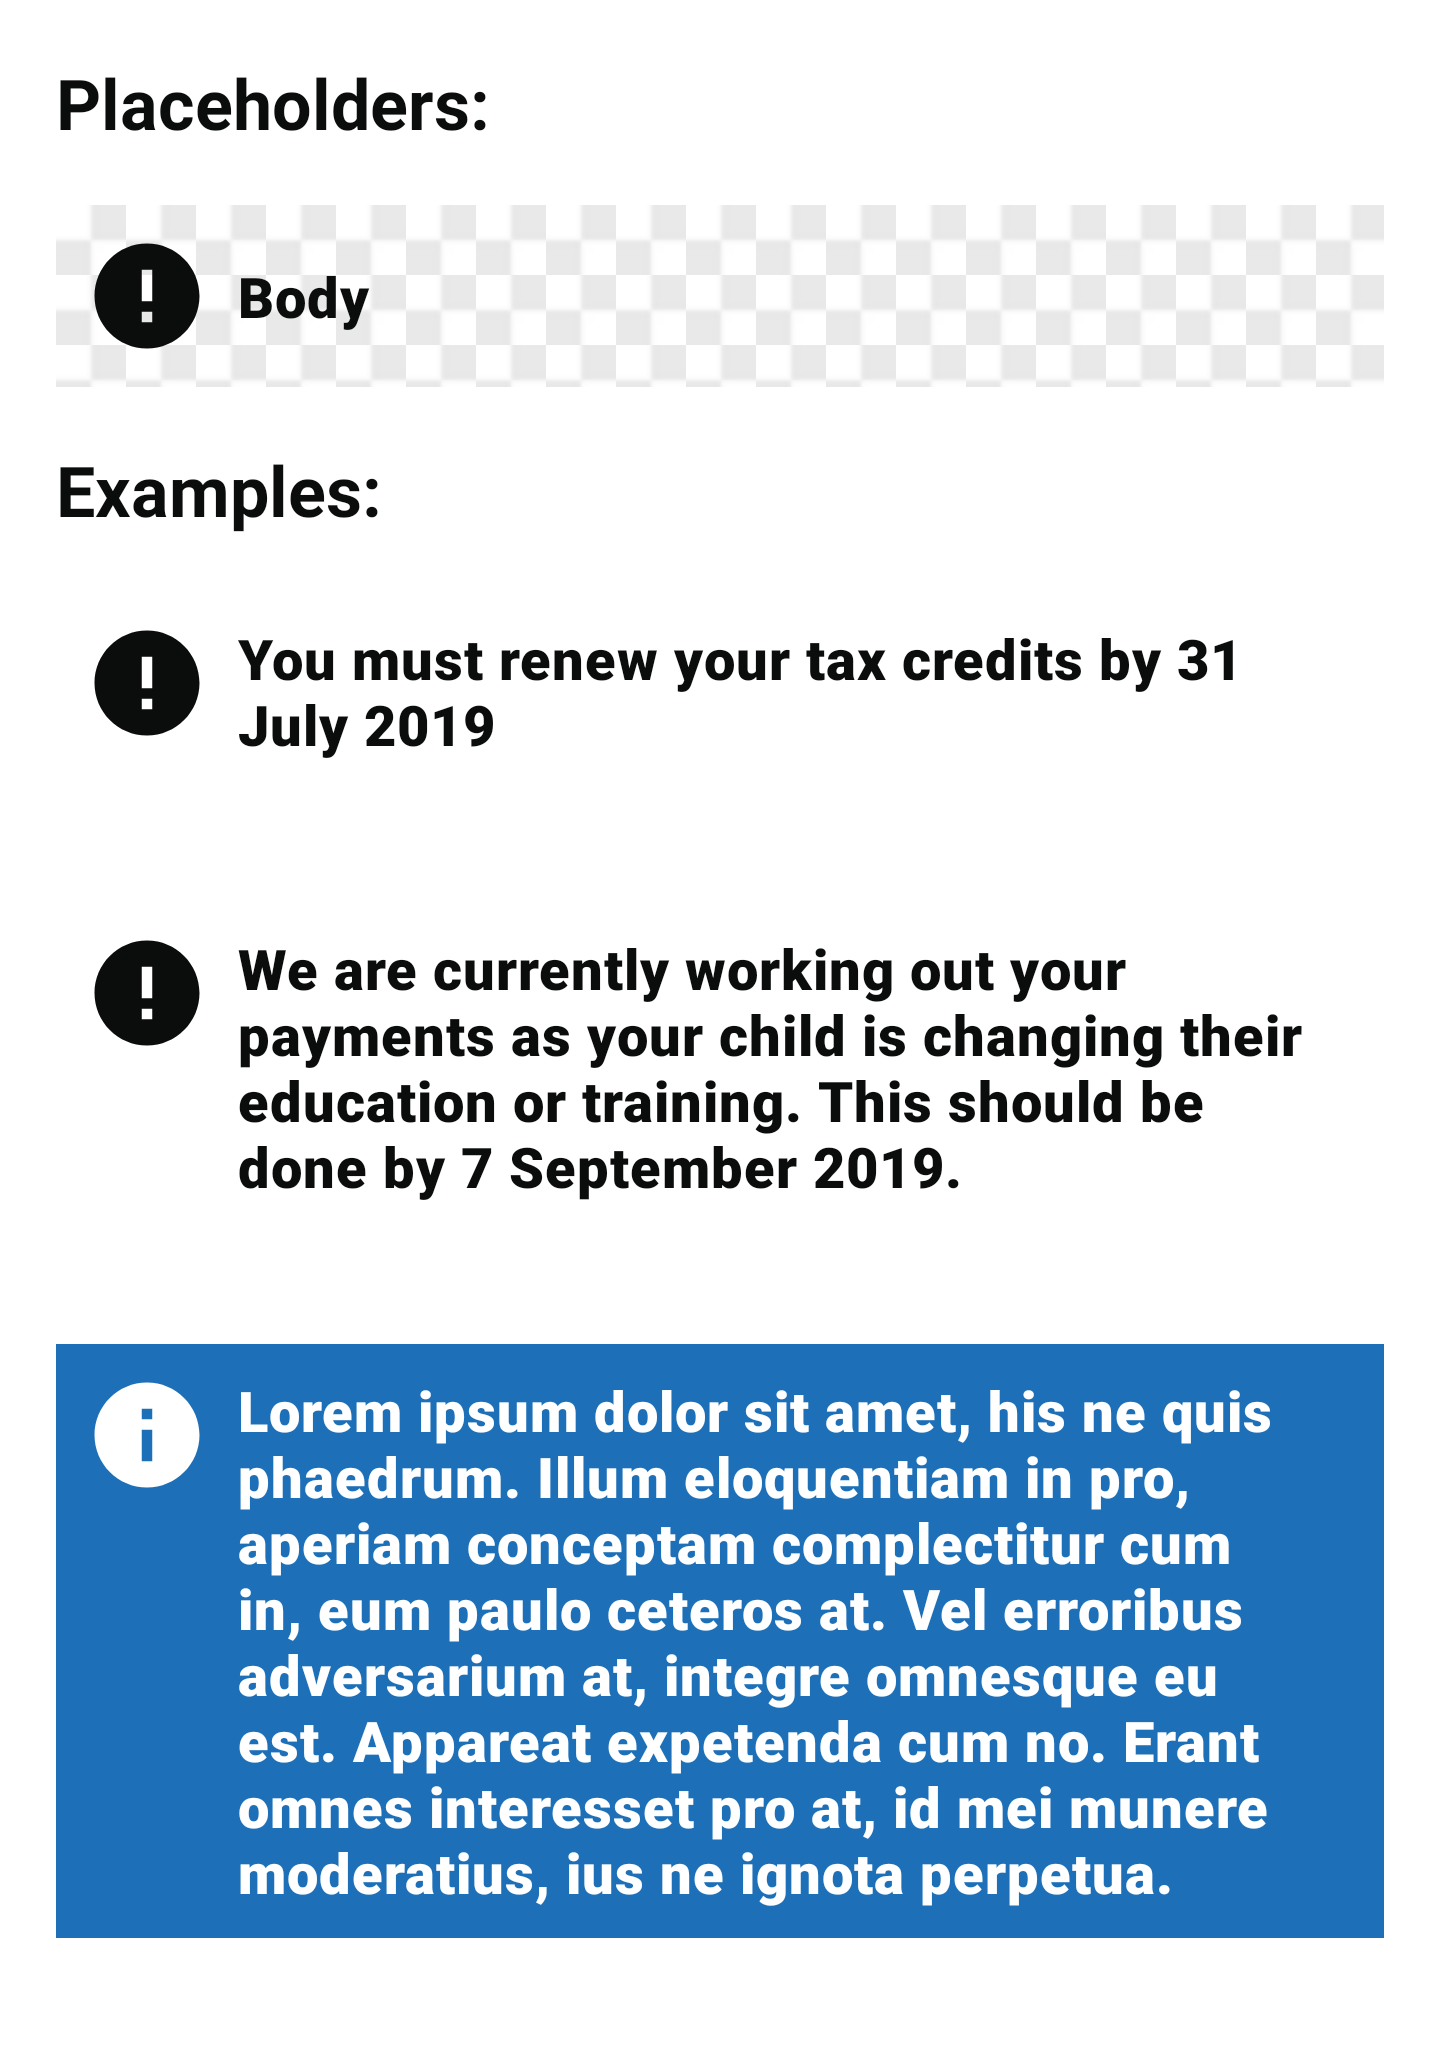
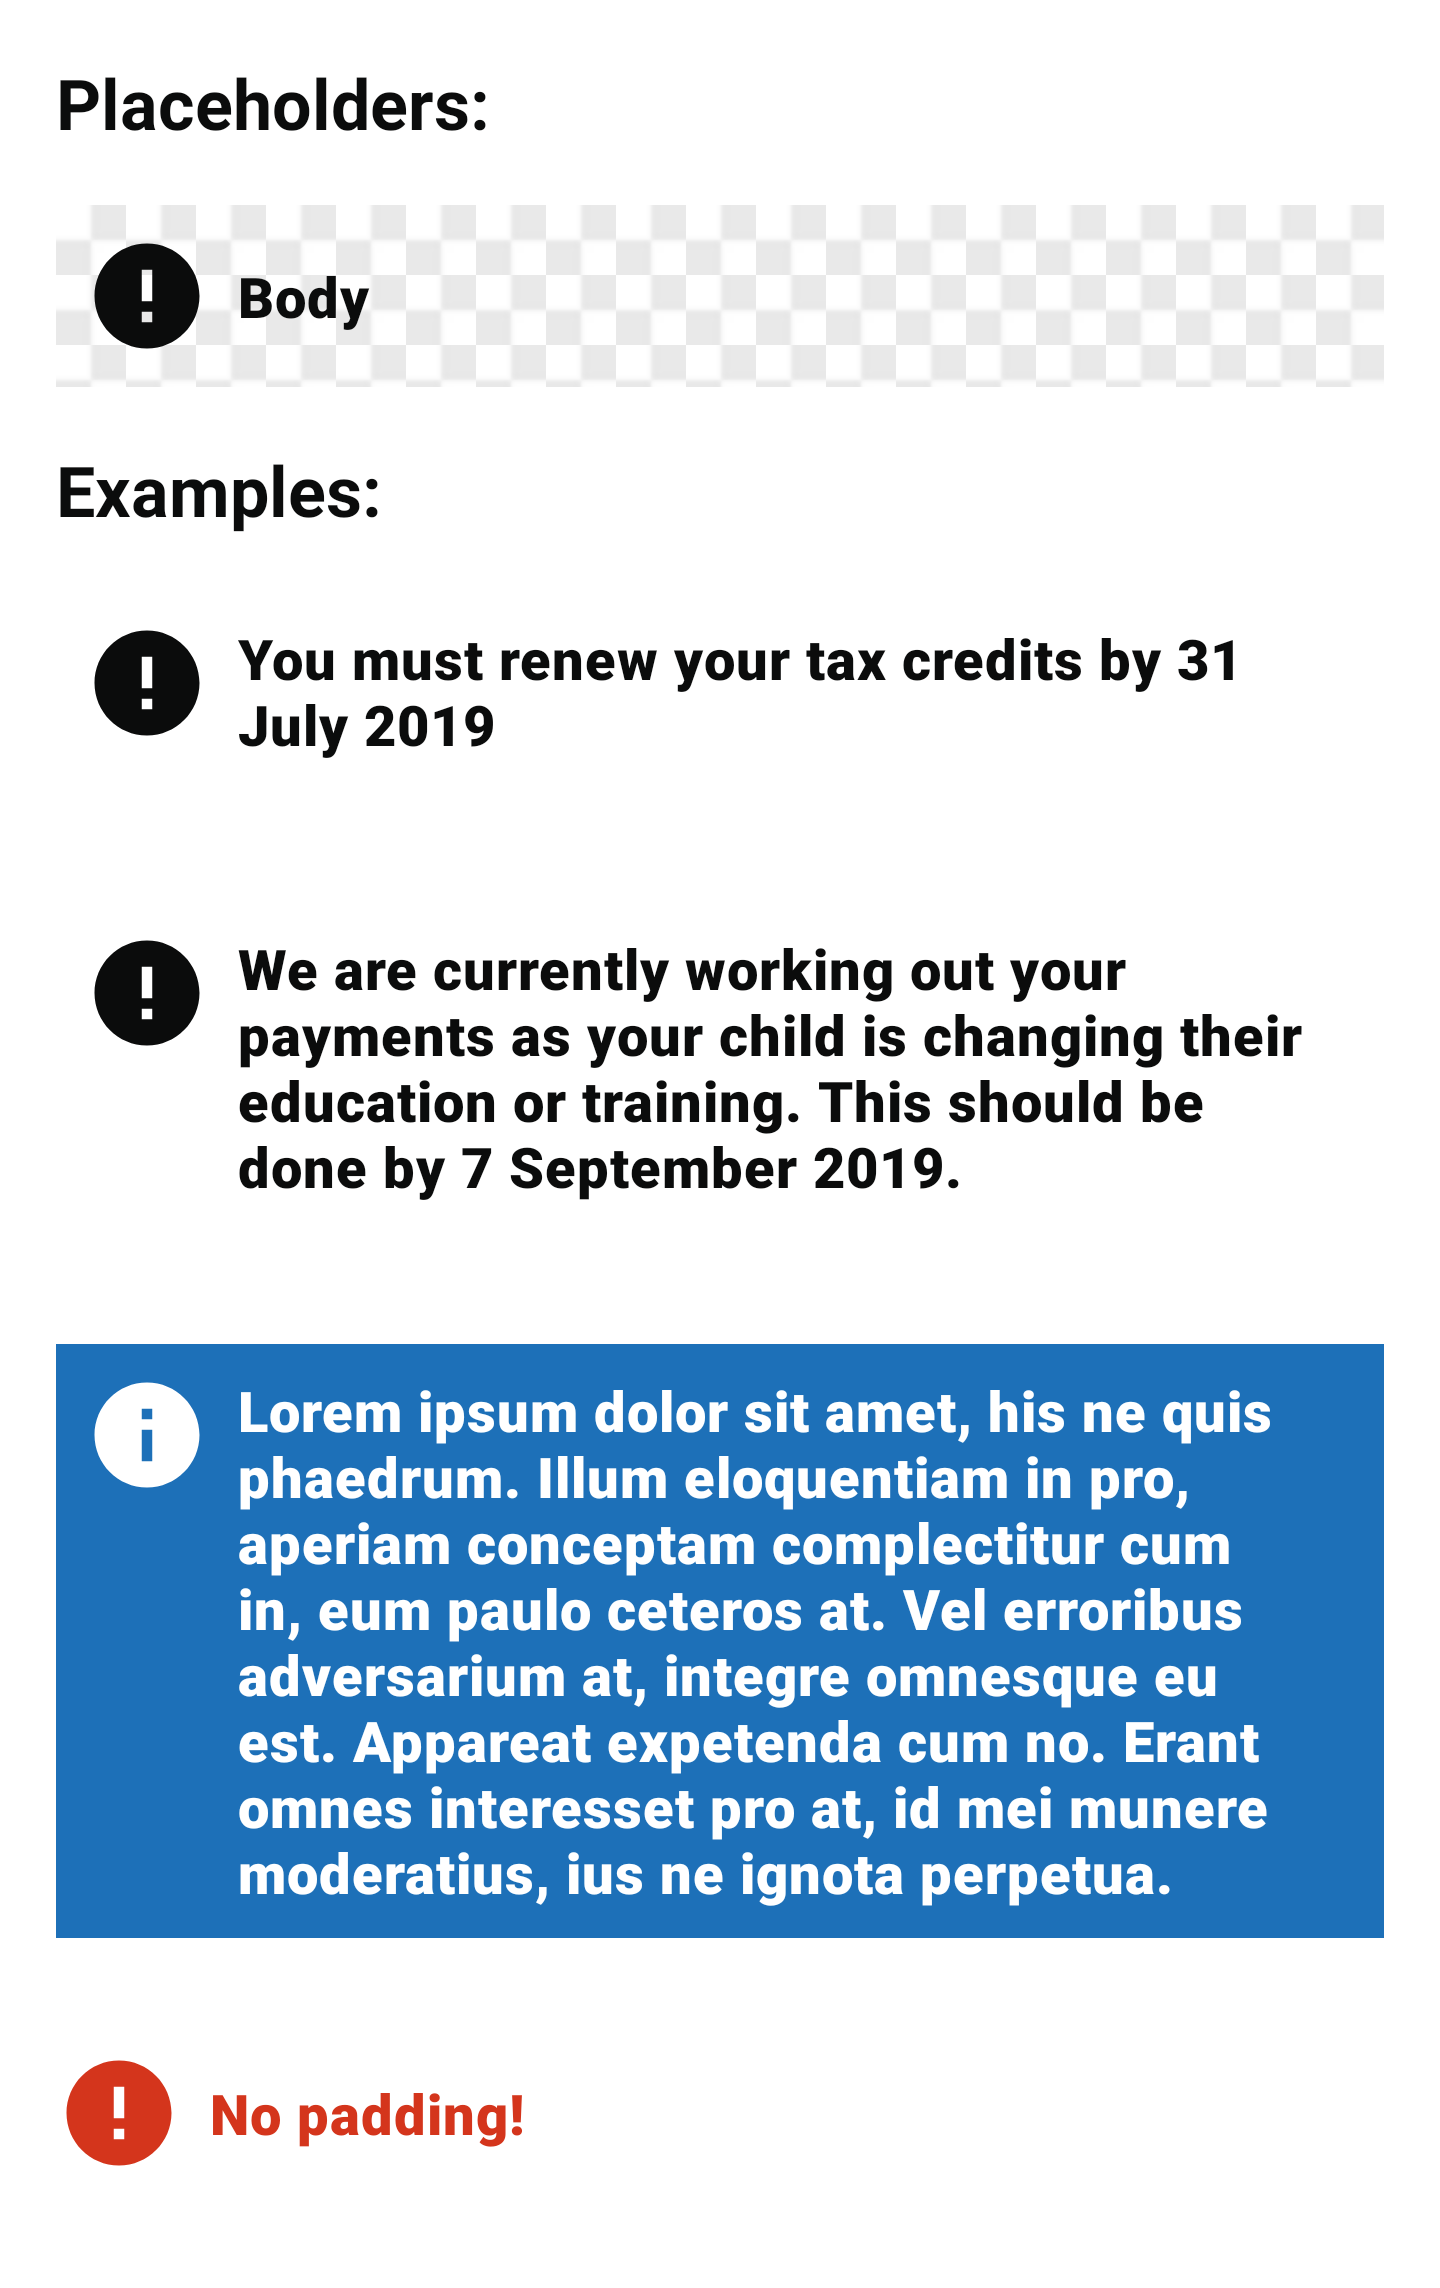
Add ability to remove default padding from WarningView (#70)
* Add ability to remove default padding from WarningView

* Rename padding attribute

* Update CHANGELOG.md

Changed region(s): [[0.0312, 0.4059, 0.9688, 0.9678], [0.0312, 0.0937, 0.875, 0.3746], [0.0312, 0.0312, 0.3438, 0.0624]]

diff --git a/components/src/main/java/uk/gov/hmrc/components/molecule/warning/WarningView.kt b/components/src/main/java/uk/gov/hmrc/components/molecule/warning/WarningView.kt
@@ -44,17 +44,18 @@ class WarningView @JvmOverloads constructor(
             val textColor = typedArray.getResourceId(R.styleable.WarningView_textColor, R.color.hmrc_black)
             val icon = typedArray.getResourceId(R.styleable.WarningView_icon, R.drawable.components_ic_warning)
             val iconTint = typedArray.getResourceId(R.styleable.WarningView_iconTintColor, R.color.hmrc_black)
+            val defaultPadding = typedArray.getBoolean(R.styleable.WarningView_defaultPadding, true)
 
             setText(text)
             setTextColor(textColor)
             setIcon(icon)
             setIconTintColor(iconTint)
+            if (defaultPadding) {
+                // Component has default padding of 8dp
+                resources.getDimensionPixelSize(R.dimen.hmrc_spacing_8).let { setPadding(it, it, it, it) }
+            }
 
             typedArray.recycle()
-        }
-
-        resources.getDimensionPixelSize(R.dimen.hmrc_spacing_8).let {
-            setPadding(it, it, it, it)
         }
     }
 

diff --git a/CHANGELOG.md b/CHANGELOG.md
@@ -16,6 +16,10 @@ Allowed headings:
 
 ## [Unreleased]
 
+### Added
+
+* `WarningView` has new attribute `defaultPadding` which removes the default padding from the component when set to false. When set to true, or not provided in the xml, component has default `8dp` padding.
+
 ### Changed
 
 * Updated padding on `HeadlineCardView` so that if there are no children added then the bottom padding is the same as a normal card (16dp). If children are added, this padding is increased back to 24dp automatically.
